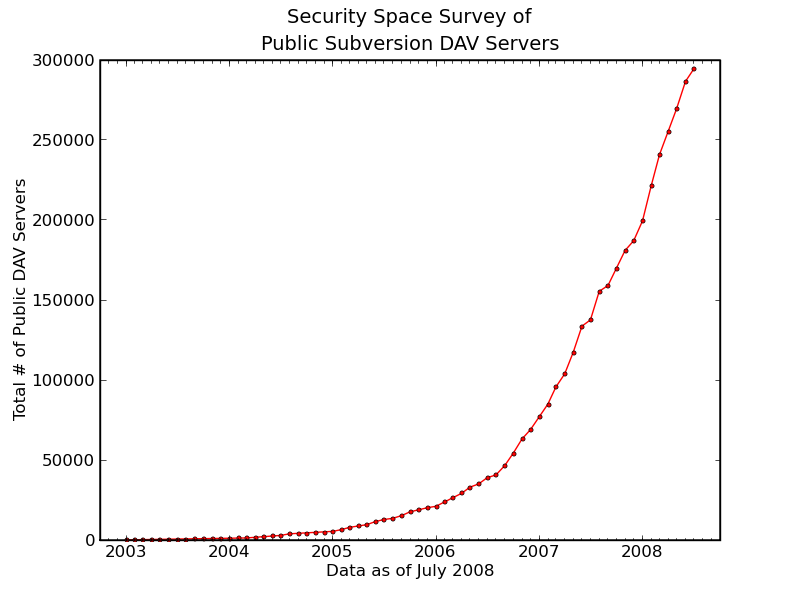
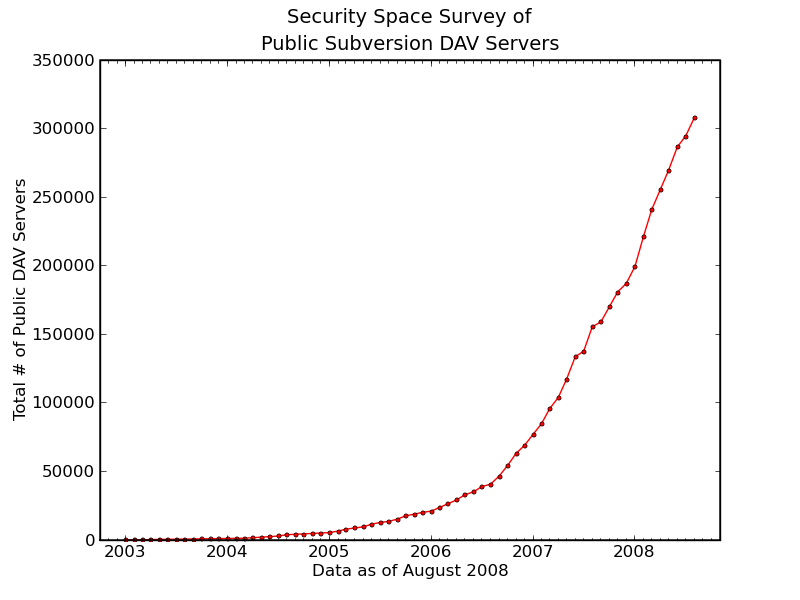
Using my crystal ball and incredible prognosticative abilities (as well as an email from SecuritySpace), update the Security Space survey for August 2008.
* www/svn-dav-securityspace-survey.html,
  www/images/svn-dav-securityspace-survey.png,
  tools/dev/graph-dav-servers.py:
  Update image and table.

git-svn-id: http://svn.apache.org/repos/asf/subversion/trunk@872401 13f79535-47bb-0310-9956-ffa450edef68

diff --git a/www/svn-dav-securityspace-survey.html b/www/svn-dav-securityspace-survey.html
@@ -44,6 +44,7 @@ for <code>mod_dav_svn</code>.  Thanks Security Space!</p>
 <table style="margin-left: auto; margin-right: auto;" border="0"
   cellpadding="5" cellspacing="0">
   <tr><th>Date</th><th># Servers</th></tr>
+  <tr><td>August 2008</td><td style="text-align: right">307,923</td></tr>
   <tr><td>July 2008</td><td style="text-align: right">294,579</td></tr>
   <tr><td>June 2008</td><td style="text-align: right">286,614</td></tr>
   <tr><td>May 2008</td><td style="text-align: right">269,478</td></tr>

diff --git a/tools/dev/graph-dav-servers.py b/tools/dev/graph-dav-servers.py
@@ -89,7 +89,8 @@ STATS = """1/1/2003       70
 4/1/2008              255520
 5/1/2008              269478
 6/1/2008              286614
-7/1/2008              294579"""
+7/1/2008              294579
+8/1/2008              307923"""
 
 
 def get_date(raw_date):
